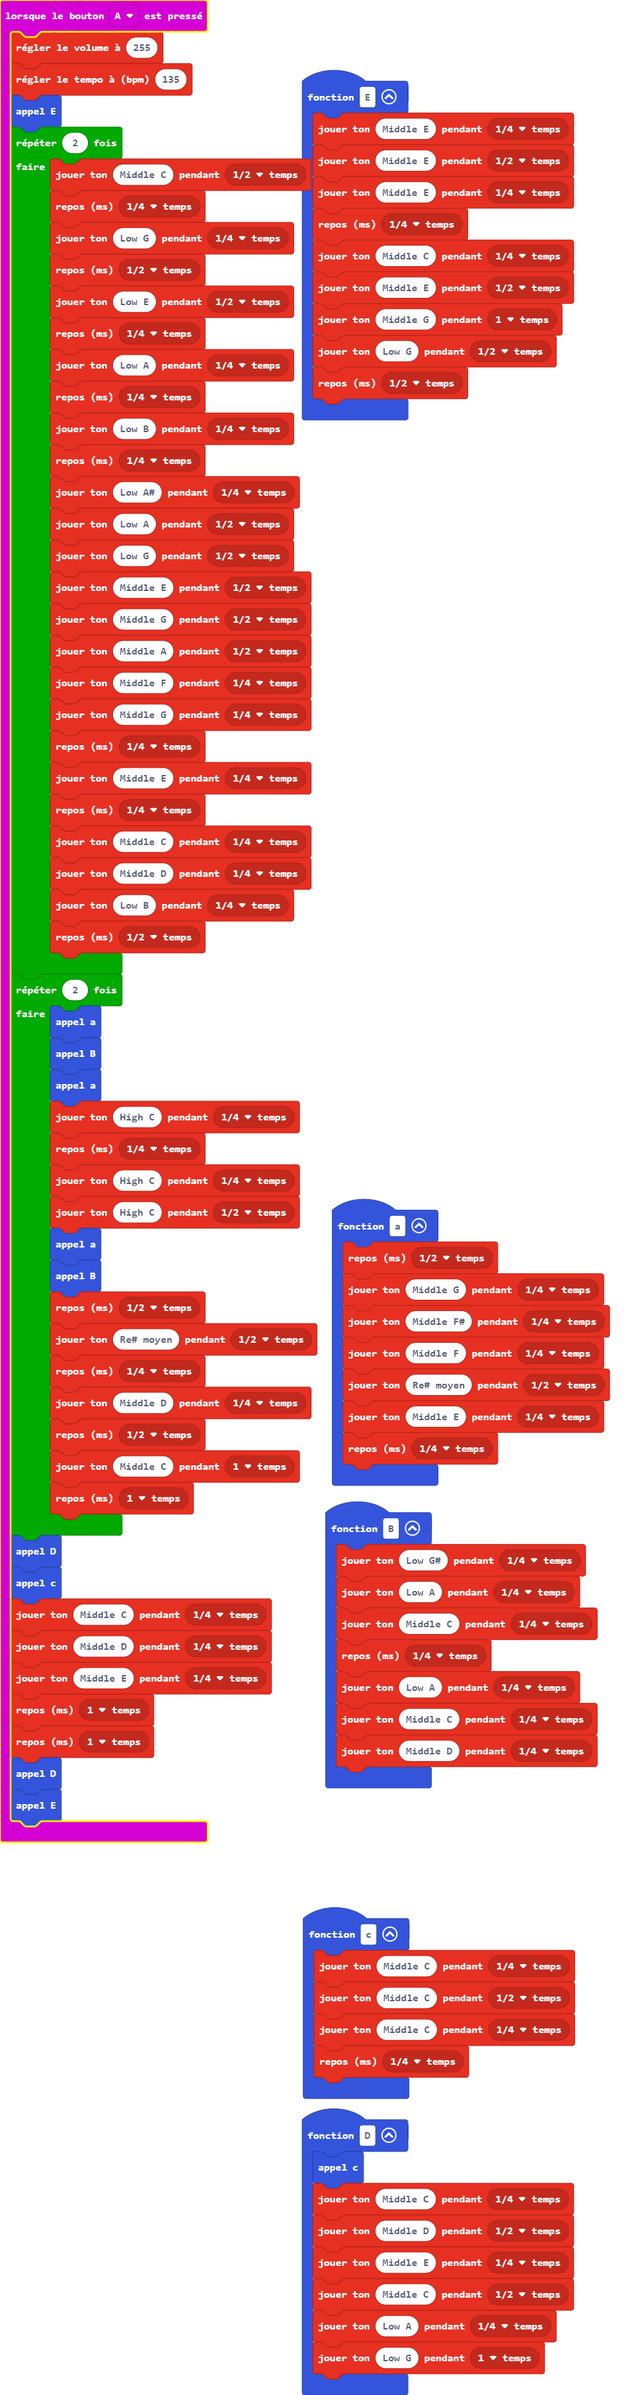
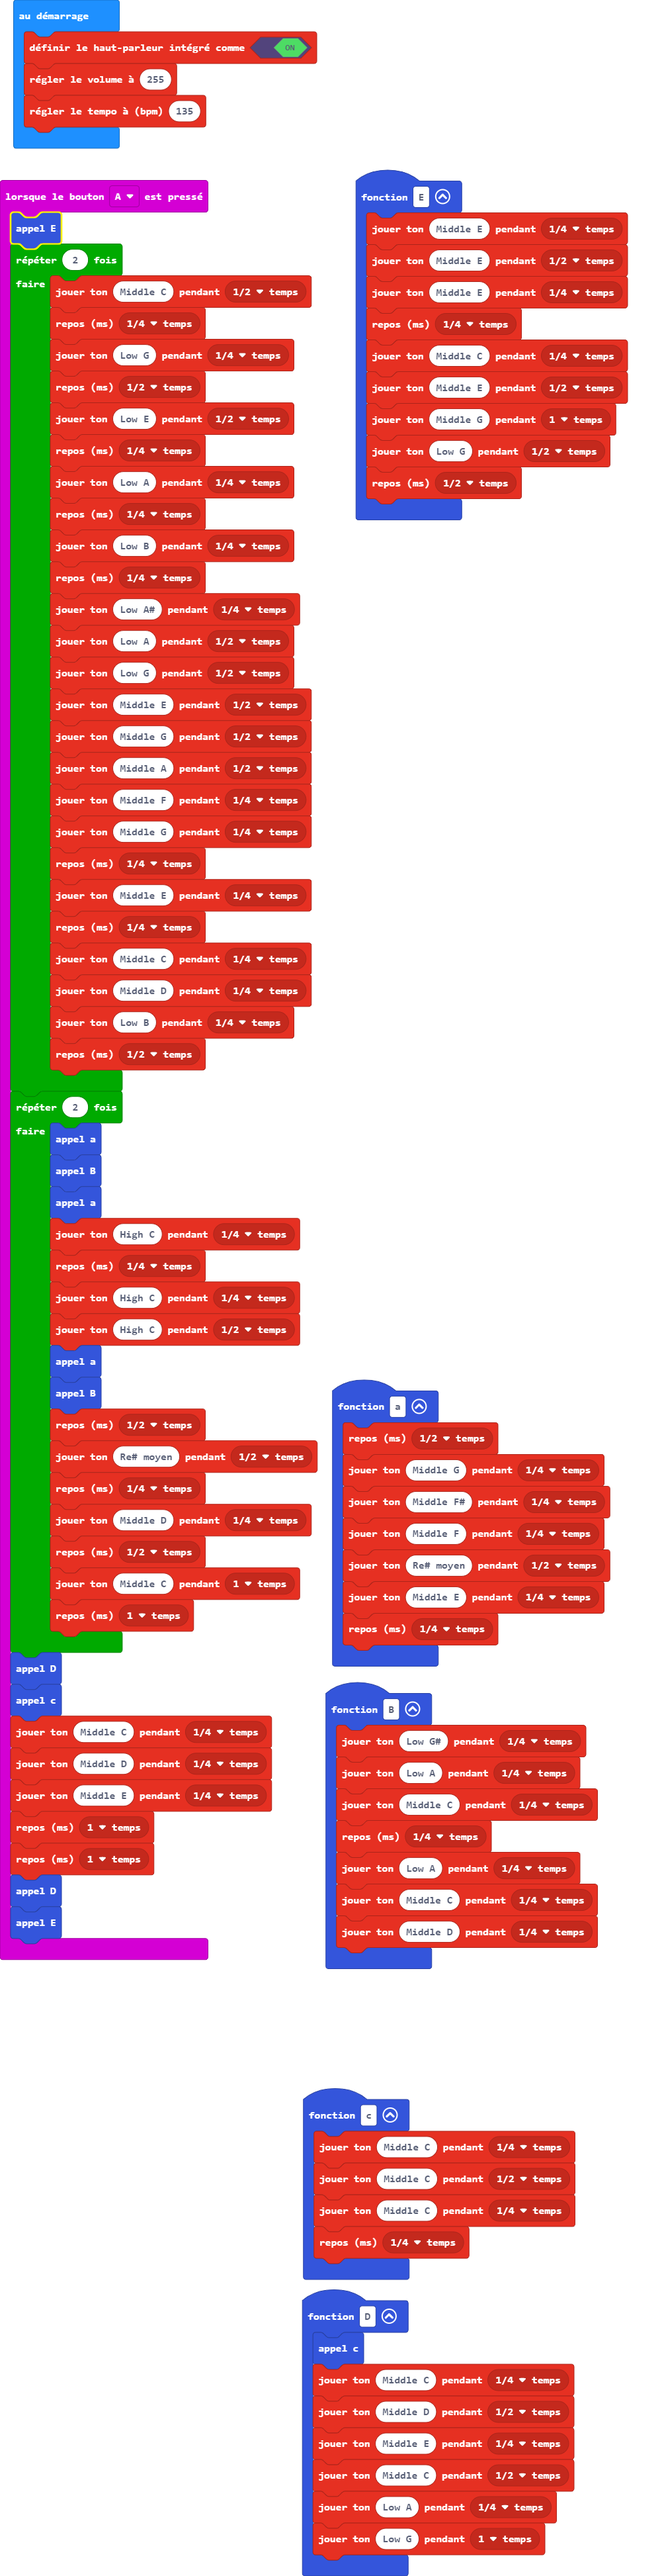
Mise à jour main.blocks, main.ts

diff --git a/main.ts b/main.ts
@@ -25,8 +25,6 @@ function E () {
     music.rest(music.beat(BeatFraction.Half))
 }
 input.onButtonPressed(Button.A, function () {
-    music.setVolume(255)
-    music.setTempo(135)
     E()
     for (let index = 0; index < 2; index++) {
         music.playTone(262, music.beat(BeatFraction.Half))
@@ -101,3 +99,6 @@ function a () {
     music.playTone(330, music.beat(BeatFraction.Quarter))
     music.rest(music.beat(BeatFraction.Quarter))
 }
+music.setBuiltInSpeakerEnabled(true)
+music.setVolume(255)
+music.setTempo(135)
